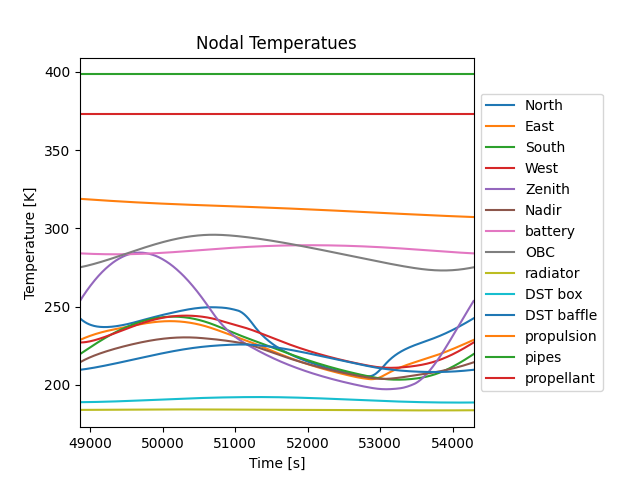
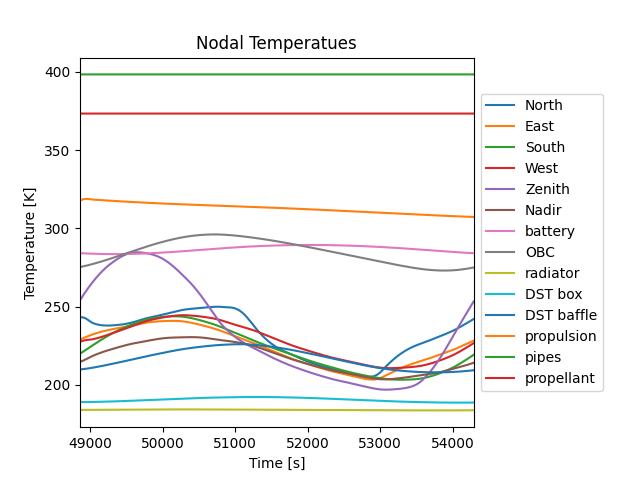
tcs unittests

diff --git a/tests/test_thermal_sim.py b/tests/test_thermal_sim.py
@@ -1,13 +1,14 @@
 import unittest
 import numpy as np
 import DSE.Thermal.thermal_dyn_sim as tds
-from DSE.Thermal.materials import Material
+from DSE.Thermal.materials import *
 from DSE.Thermal.env import Env
 
 
 class TestThermalSimulation(unittest.TestCase):
     def test_thermal_node(self):
-        TN = tds.ThermalNode(0, 'node', {'area': 1, 'radiation_area': 2, 'contact_area': 3, 'mass': 4, 'heat_generated':0}, Material().aluminium())
+        TN = tds.ThermalNode(0, 'node', {'area': 1, 'radiation_area': 2, 'contact_area': 3, 'mass': 4,
+                                         'heat_generated': 0}, aluminium(), bare_Al())
         self.assertEqual(TN.node_id, 0)
         self.assertEqual(TN.name, 'node')
         self.assertEqual(TN.area, 1)
@@ -15,22 +16,31 @@ class TestThermalSimulation(unittest.TestCase):
         self.assertEqual(TN.contact_area, 3)
         self.assertEqual(TN.mass, 4)
         self.assertEqual(TN.heat_generated, 0)
+        self.assertEqual(TN.thermal_capacitance, 897)
+        self.assertEqual(TN.emissivity, 0.15)
 
     def test_thermal_model(self):
-        TM = tds.ThermalModel([], [], Env(), 1000, 200)
+        TM = tds.ThermalModel([], [], Env(), 200, n_orbits=10, sun_shield=False, unit='C', ESATAN=False)
         self.assertEqual(TM.nodes, [])
         self.assertEqual(TM.connections, [])
-        self.assertEqual(TM.t_sim, 1000)
         self.assertEqual(TM.init_temp, 200)
+        self.assertEqual(TM.n_orbits, 10)
+        self.assertEqual(TM.sun_shield, False)
+        self.assertEqual(TM.unit, 'C')
+        self.assertEqual(TM.ESATAN, False)
         self.assertEqual(TM.solution, None)
 
     def test_thermal_solution(self):
-        TN1 = tds.ThermalNode(0, 'node1', {'area': 1, 'radiation_area': 1, 'contact_area': 2, 'mass': 4, 'heat_generated': 10}, Material().aluminium())
-        TN2 = tds.ThermalNode(1, 'node2', {'area': 2, 'radiation_area': 2, 'contact_area': 2, 'mass': 4, 'heat_generated': 10}, Material().aluminium())
+        TN1 = tds.ThermalNode(0, 'node1', {'area': 0.5, 'radiation_area': 1, 'contact_area': [0, 0.1], 'mass': 1,
+                                           'heat_generated': 10}, aluminium(), white_paint())
+        TN2 = tds.ThermalNode(1, 'node2', {'area': 1, 'radiation_area': 1, 'contact_area': [0.1, 0], 'mass': 1,
+                                           'heat_generated': 10}, aluminium(), bare_Al())
         nodes = [TN1, TN2]
-        TC = np.array([[1],
-                       [0]])
-        TM = tds.ThermalModel(nodes, TC, Env(), 1000, [200, 200])
+        TC = np.array([[1], [0]])
+        Q = [np.ones(Env().t_orbit), np.ones(Env().t_orbit)]
+        TM = tds.ThermalModel(nodes, TC, Env(), [250, 260], n_orbits=1, sun_shield=False, unit='K', ESATAN=True,
+                              Q_ESATAN=Q)
         TM.solve()
-        self.assertAlmostEqual(TM.solution.y[0][-1], 280, delta=1)
+        self.assertAlmostEqual(TM.Tdot_arr[0][0], 0.05154, delta=1e-4)
+
 

diff --git a/Thermal/thermal_dyn_sim.py b/Thermal/thermal_dyn_sim.py
@@ -78,6 +78,7 @@ class ThermalModel:
         self.unit = unit
         self.ESATAN = ESATAN
         self.Q_ESATAN = Q_ESATAN
+        self.Tdot_arr = [[] for i in range(len(self.nodes))]
 
     def Qs(self, t, i):
         """
@@ -183,6 +184,7 @@ class ThermalModel:
                           node.radiation_area * node.emissivity * self.env.sigma_boltzmann * (T[i] ** 4)
 
             Tdot[i] = Q[i] / (node.thermal_capacitance * node.mass)
+            self.Tdot_arr[i].append(Tdot[i])
 
         return Tdot
 
@@ -191,7 +193,8 @@ class ThermalModel:
         Solves the temperature of each node over the simulation time
         """
         # self.plotting_Q()
-        sol = solve_ivp(self.Tdot, (0, self.t_sim), self.init_temp, method='RK45', max_step=10, vectorized=True)
+        sol = solve_ivp(self.Tdot, (0, self.t_sim), self.init_temp, method='RK45', t_eval=np.arange(0, self.t_sim+1, 1),
+                        vectorized=True)
         self.solution = sol
 
     def t_solver(self, Qin, Qgen, A_rad, emissivity):

diff --git a/tests/test_convert_mag_field.py b/tests/test_convert_mag_field.py
@@ -38,13 +38,13 @@ class TestConvertMagField(unittest.TestCase):
 
     def test_get_sizing_from_angular_momentum(self):
         x = np.array([[1,76,3], [3,6,8], [8,3,6]])
-        np.testing.assert_almost_equal(get_sizing_from_angular_momentum(x), np.array([16, 152, 16]))
+        np.testing.assert_almost_equal(get_sizing_from_angular_momentum(x), np.array([8, 76, 8]))
 
     def test_angular_momentum_calc(self):
         a = np.array([[1, 1, 4, 1, 0, 1, 0, 8, 4, 6], [1, 1, 4, 1, 0, 1, 0, 8, 4, 6], [1, 1, 4, 1, 0, 1, 0, 8, 4, 6]]).T
         d = np.ones((10, 3))
         m = np.array([[1, 1, 2, 1, 4, -1, 6, 0, 8, 0], [1, 1, 2, 1, 4, -1, 6, 0, 8, 0], [1, 1, 2, 1, 4, -1, 6, 0, 8, 0]]).T
-        np.testing.assert_almost_equal(angular_momentum_calc(m, a, d), [8, 8, 8])
+        np.testing.assert_almost_equal(angular_momentum_calc(m, a, d), [4,4,4])
 
     def test_sizing_angular_momentum_calc(self):
         max_ang_mom = [10, 20, 30]

diff --git a/Thermal/materials.py b/Thermal/materials.py
@@ -1,6 +1,3 @@
-import numpy as np
-
-
 class Material:
     def __init__(self, params=None):
         if params is not None:
@@ -58,7 +55,7 @@ def bare_solar_panel() -> 'Coating':
     return Coating({'absorptivity': 0.42, 'emissivity': 0.52})
 
 def coated_solar_panel() -> 'Coating':
-    return Coating({'absorptivity': np.mean([0.06, 0.42]), 'emissivity': np.mean([0.52, 0.88])})
+    return Coating({'absorptivity': (0.06 + 0.42)/2, 'emissivity': (0.52 + 0.88)/2})
 
 def OSR_coat() -> 'Coating':
     return Coating({'absorptivity': 0.06, 'emissivity': 0.9})

diff --git a/Thermal/configurations.py b/Thermal/configurations.py
@@ -122,6 +122,7 @@ def make_TCS(output=None, plot=False, unit='K', Q=None, file=None):
 
 if __name__ == '__main__':
     AN15 = prepare_heat_flows(interpolate_points(heat_flows(), Env().t_orbit, 10))
+    print(AN15)
     l = ['North', 'East', 'South', 'West', 'Zenith', 'Nadir', 'Batteries', 'Solar panel 1', 'OBC', 'propellant tanks',
          'raditator', 'DST box', 'DST baffle', 'solar panel 2', 'solar panel 3', 'thruster', 'propellant lines']
     idx = [0,1,2,3,4,5,7,10,12,13,14]
